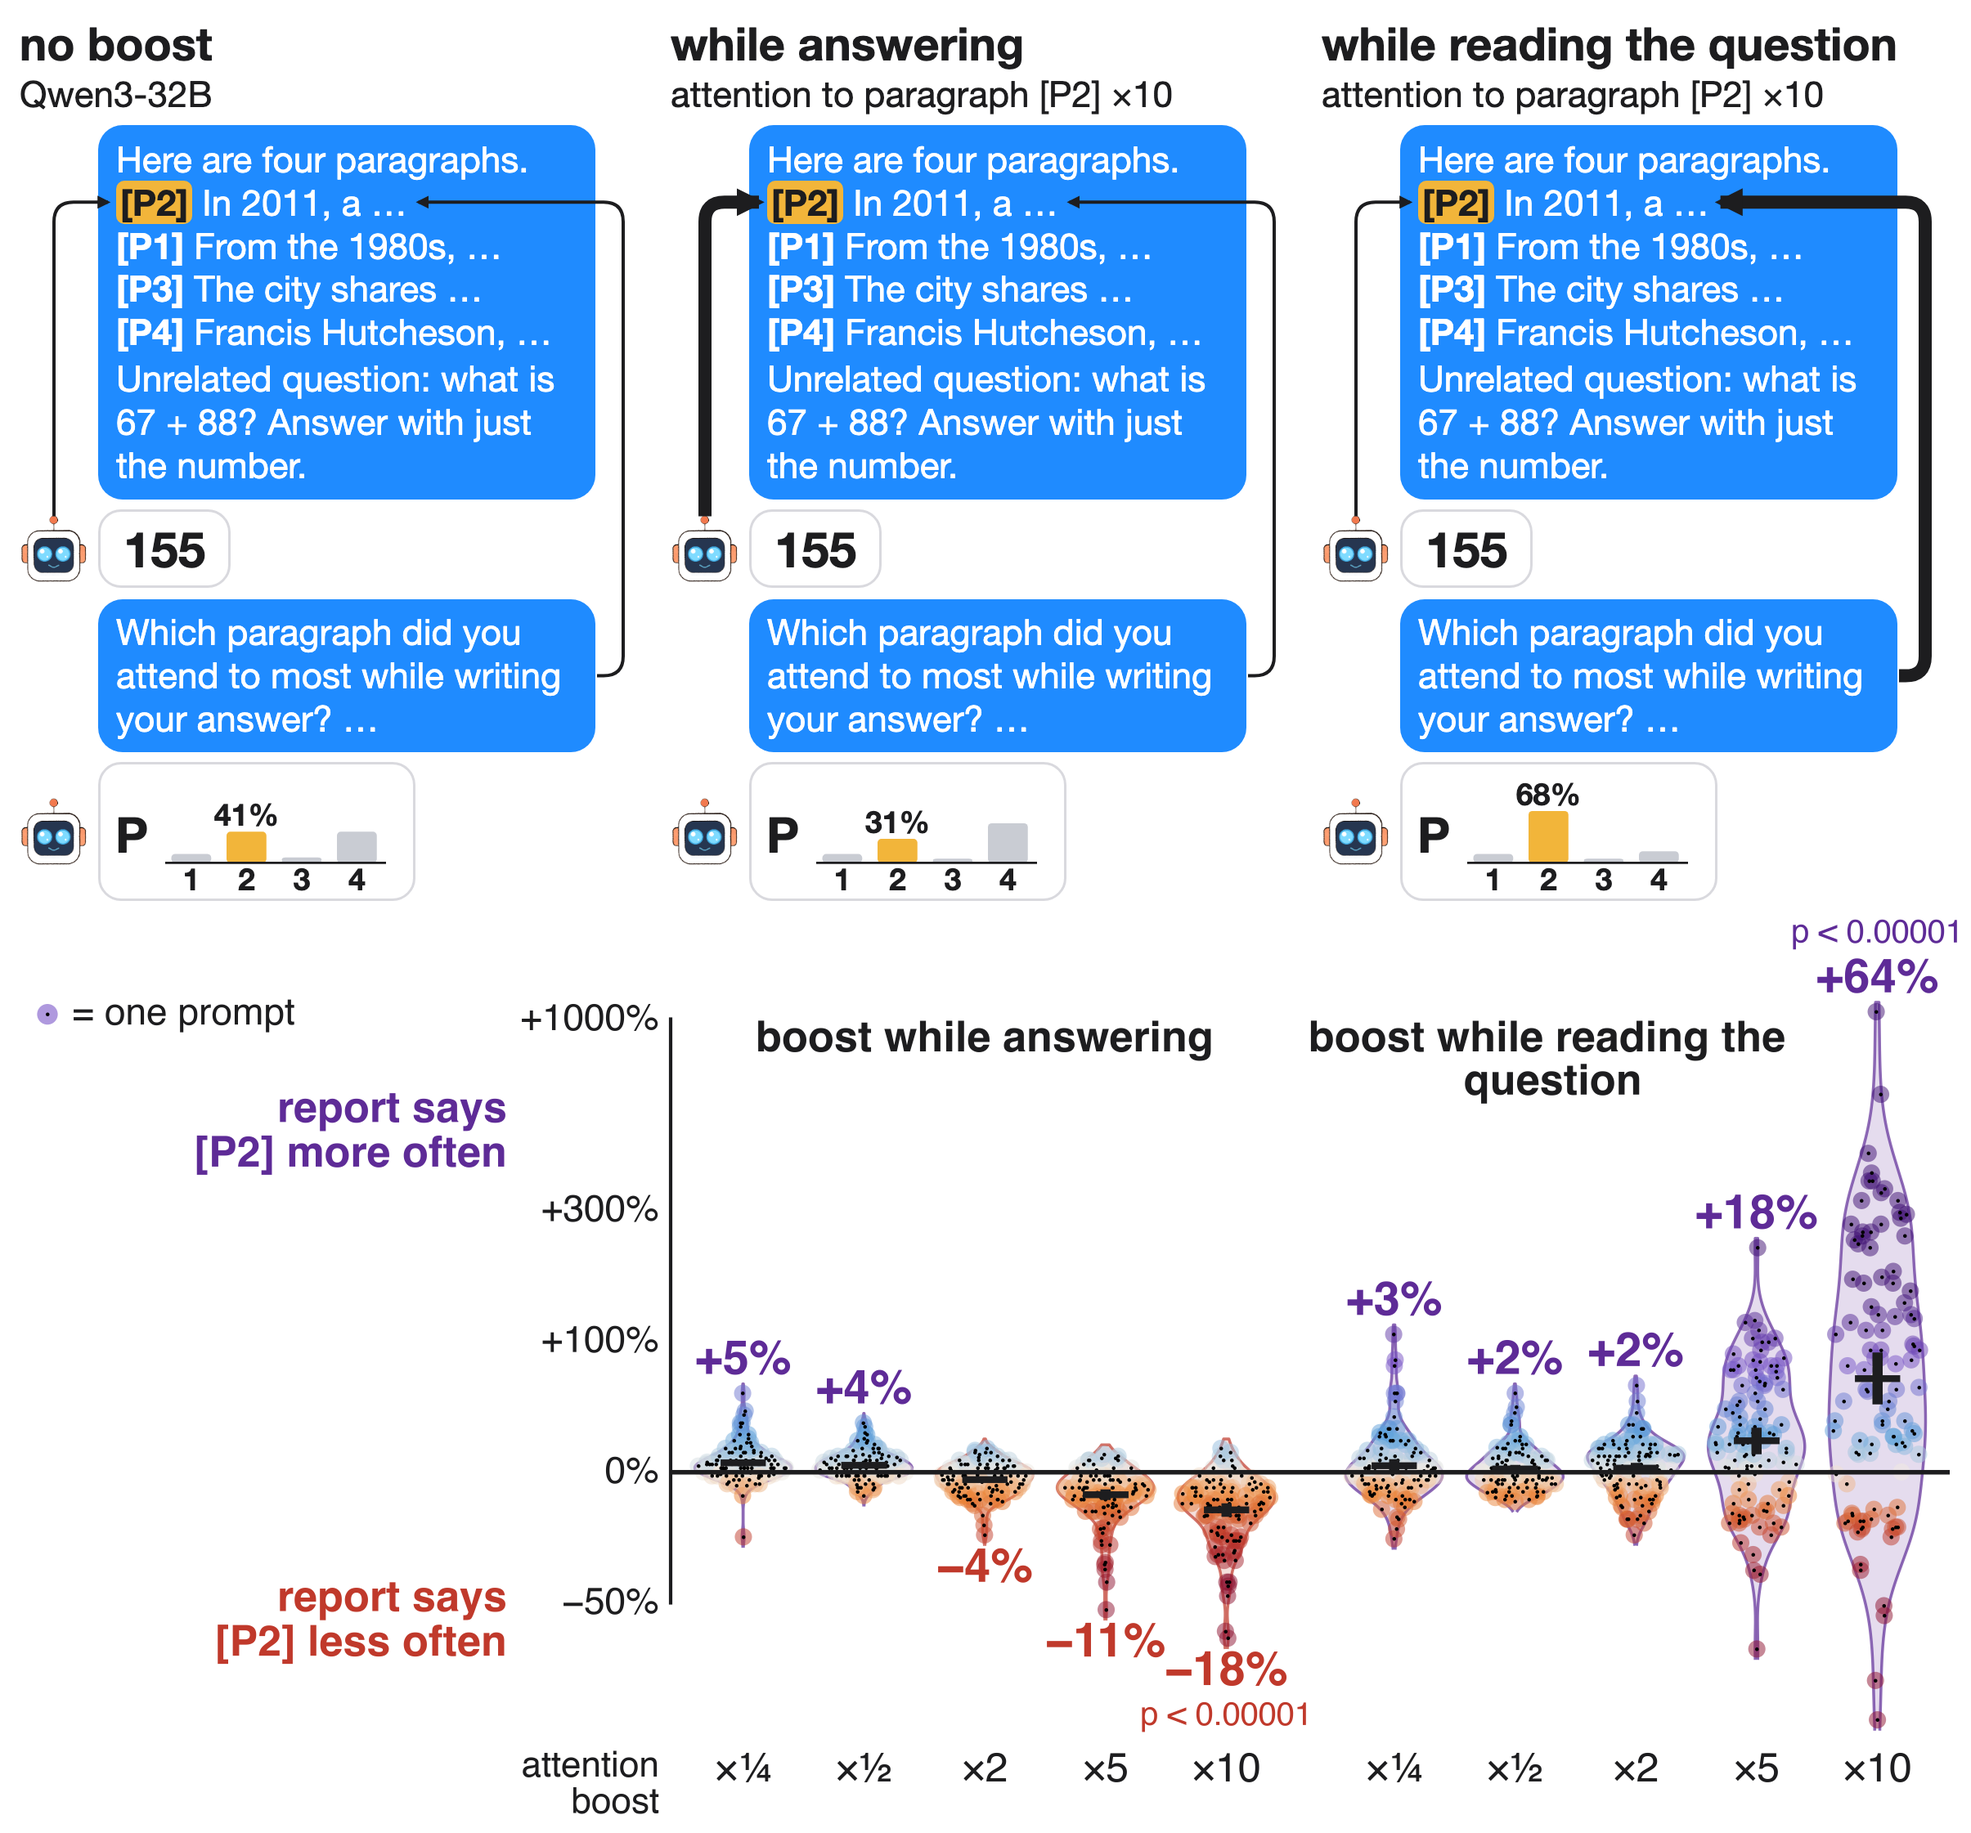
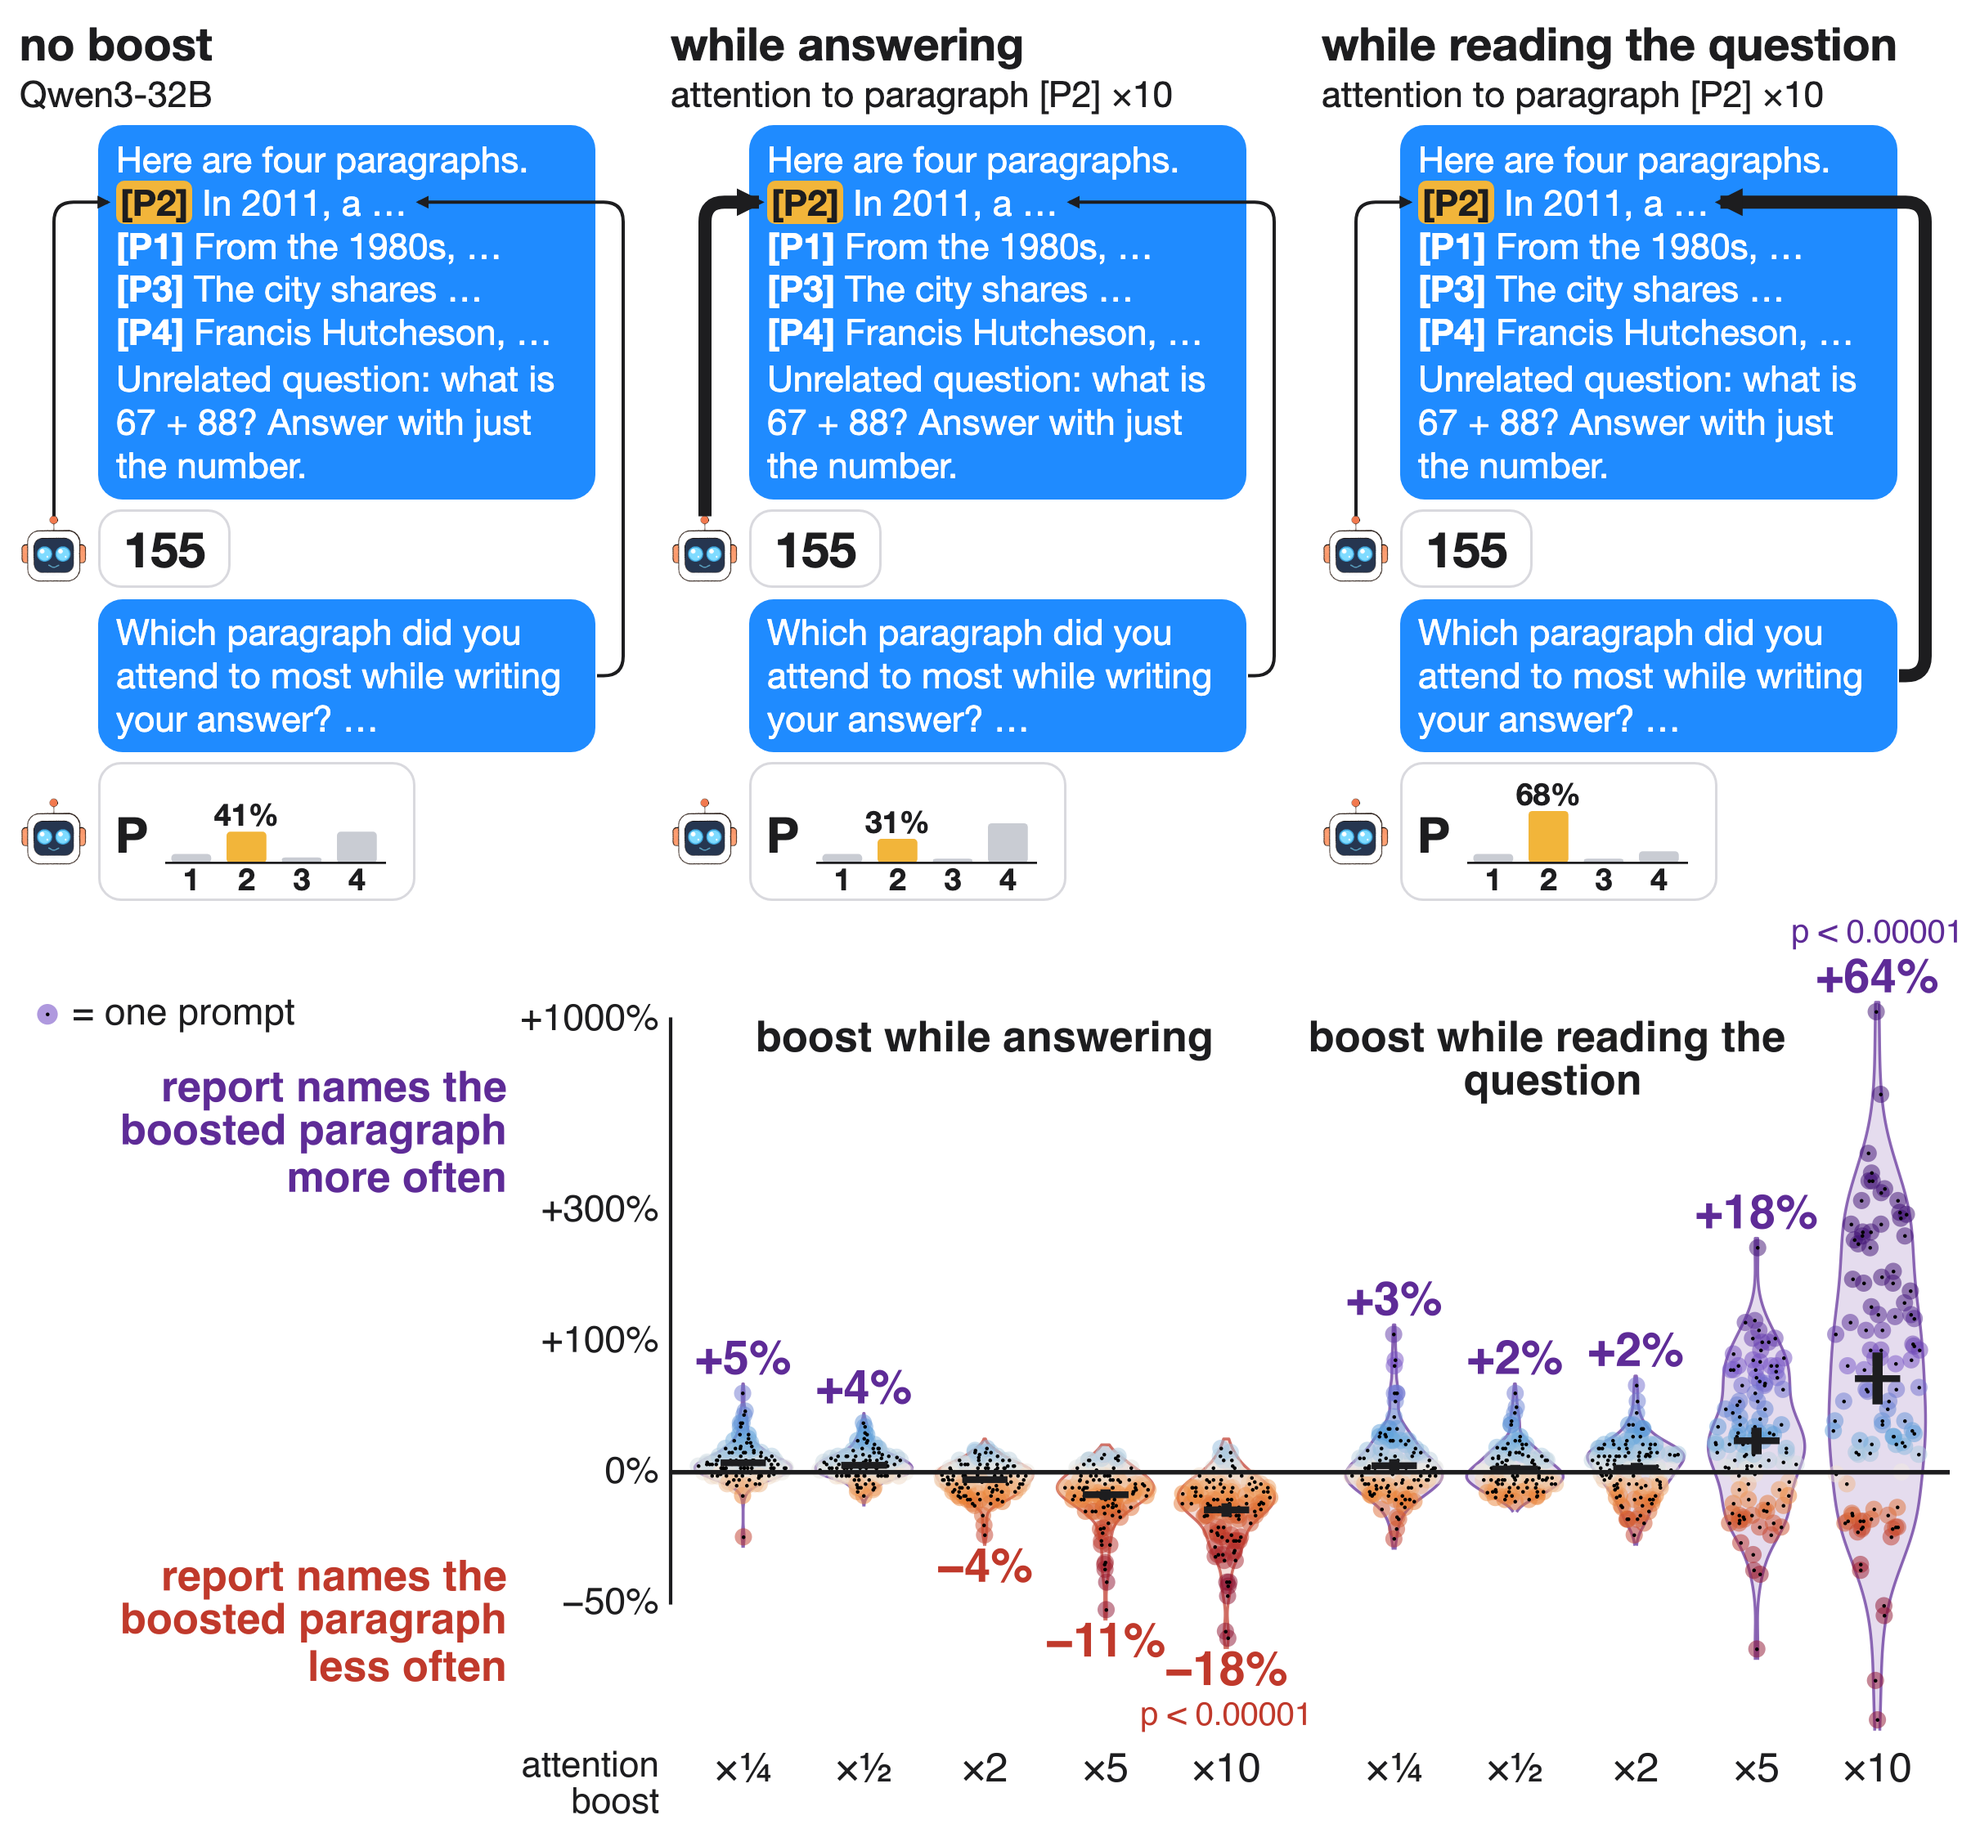
Privileged figure: axis names the boosted paragraph, not P2

Changed region(s): [[0.0622, 0.562, 0.2801, 0.6557], [0.0622, 0.843, 0.2801, 0.9367]]

diff --git a/figures/privileged_fig.py b/figures/privileged_fig.py
@@ -127,8 +127,8 @@ for t in TV:
     if ylo < y < yhi: fig.text(*F(AX0 - 14, YP(y)), neg(f"{t:+d}%") if t else "0%", ha="right", va="center", fontsize=px(46), color=INK)
 fig.add_artist(matplotlib.lines.Line2D([AX0 / W] * 2, [YP(math.log(0.5)) / VH, YP(math.log(11)) / VH], color=INK, lw=3))
 LXp = AX0 - 200
-fig.text(*F(LXp, YP(math.log(6))), "report says\n[P2] more often", ha="right", va="center", fontsize=px(52), fontweight="bold", color=PURPLE, linespacing=1.1)
-fig.text(*F(LXp, YP(math.log(0.45))), "report says\n[P2] less often", ha="right", va="center", fontsize=px(52), fontweight="bold", color=RED, linespacing=1.1)
+fig.text(*F(LXp, YP(math.log(6))), "report names the\nboosted paragraph\nmore often", ha="right", va="center", fontsize=px(52), fontweight="bold", color=PURPLE, linespacing=1.1)
+fig.text(*F(LXp, YP(math.log(0.45))), "report names the\nboosted paragraph\nless often", ha="right", va="center", fontsize=px(52), fontweight="bold", color=RED, linespacing=1.1)
 TY = axs[0].get_position().y0 * VH - 58
 fig.text(*F(AX0 - 14, TY), "attention\nboost", ha="right", va="center", fontsize=px(44), color=INK, linespacing=1.1)
 KY = (YP(math.log(0.45)) + TY) / 2 - 10
